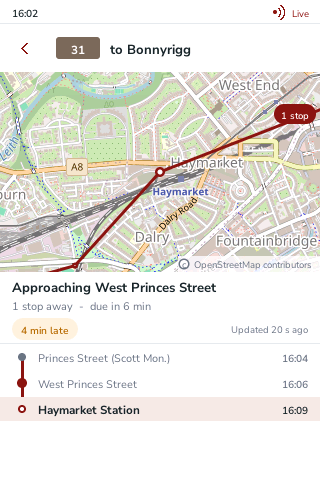
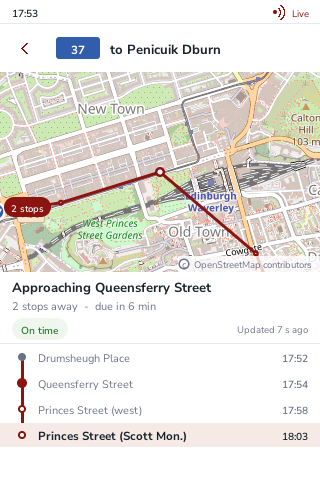
Bus detail screenshot: city-centre live departure at Princes Street (Scott Mon.)
Replaces the demo trip, which framed the west end. Row 0 of
--live-detail 6200206470 (bus 37, approaching Queensferry Street, on time).
README: alt text and how the screenshot was made.

diff --git a/README.md b/README.md
@@ -6,7 +6,7 @@ A Raspberry Pi bus board: live Lothian departures for the stops near home, on a 
   <img src="docs/images/board.png" alt="Departures board for Princes Street, into city" width="240">
   <img src="docs/images/board-hidden.png" alt="Departures board with two routes hidden" width="240">
   <img src="docs/images/stop-list.png" alt="Stop list for the into-city direction" width="240">
-  <img src="docs/images/bus-detail.png" alt="Bus detail: live position on an OpenStreetMap map, 4 minutes late" width="240">
+  <img src="docs/images/bus-detail.png" alt="Bus detail: a live bus approaching Queensferry Street on an OpenStreetMap map, on time" width="240">
 </p>
 <p align="center">
   <img src="docs/images/error.png" alt="No Wi-Fi error screen with retry and choose-stop buttons" width="240">
@@ -106,7 +106,7 @@ The look-ahead (60 minutes) and the maximum number of departures per stop (12) a
 - `--fixture` uses a JSON file in place of the live board. `--now` sets the clock for it. `--age SECS` draws the board as if its data were that old.
 - `--hidden` takes route names separated by commas. `--direction into|out` sets the highlight.
 - `--tiles DIR` gives the map its tiles. Without it, the map draws a plain background.
-- `--row N` with `--live-detail STOP` (development only, uses the live API) draws the bus detail for a real departure at a stop.
+- `--row N` with `--live-detail STOP` (development only, uses the live API) draws the bus detail for the Nth departure with a journey at a stop. The screenshot `docs/images/bus-detail.png` is row 0 at Princes Street (Scott Mon.), taken in the city centre.
 - `--fetch <atcocode>` prints one stop's board from the live API.
 
 **Tests** need no display and no network:
